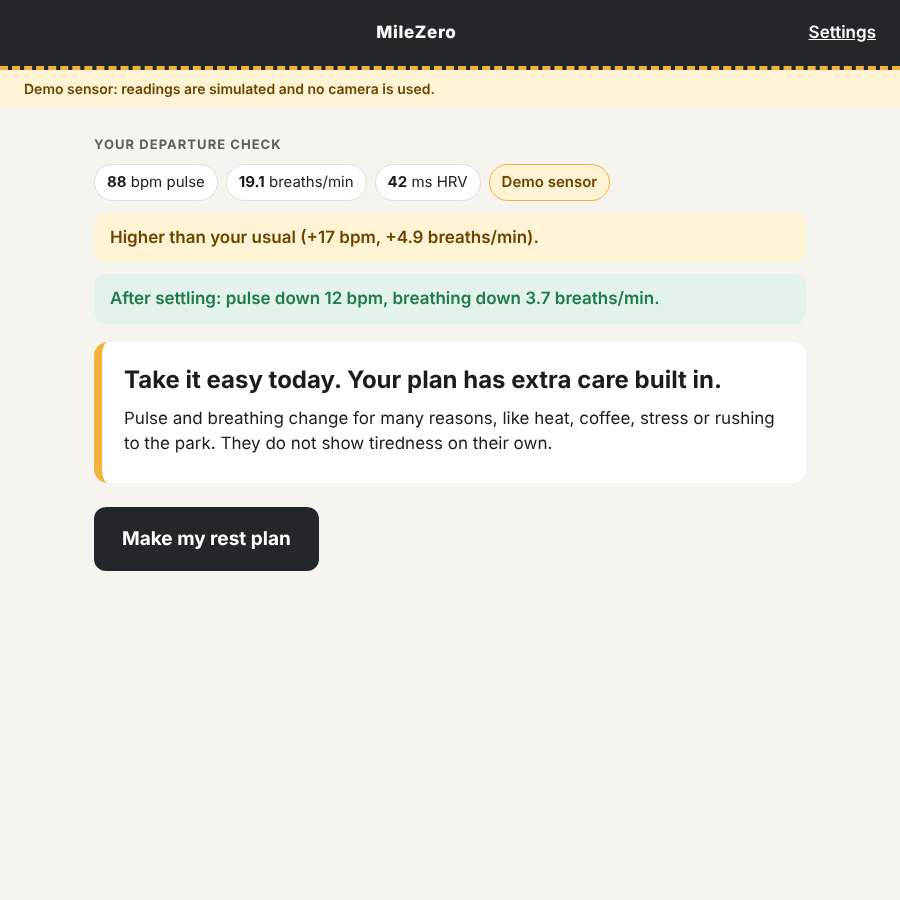
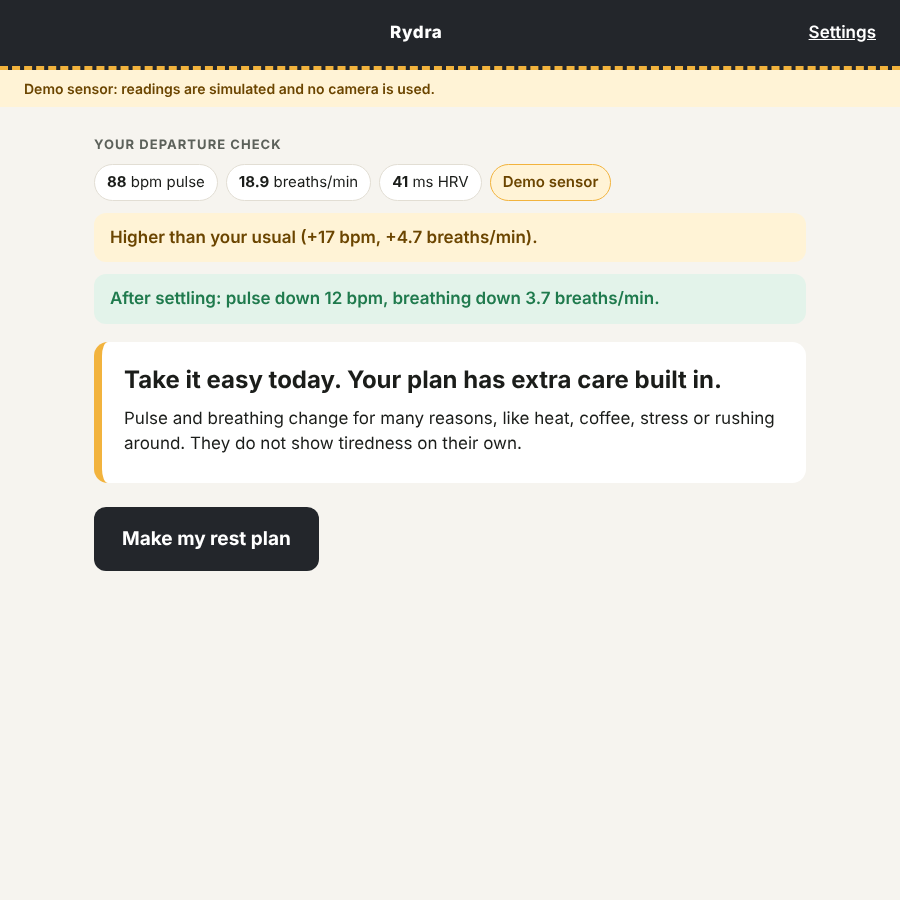
Rename product to Rydra

diff --git a/src/ui/app.js b/src/ui/app.js
@@ -1,4 +1,4 @@
-// MileZero renderer: screens, flow and local state.
+// Rydra renderer: screens, flow and local state.
 'use strict';
 
 const QRCode = require('qrcode');
@@ -14,9 +14,9 @@ const { DemoSensor } = require('../sensor/demo');
 
 const browserPreview = typeof window.mz === 'undefined';
 const api = browserPreview ? {
-  load: async () => { try { return JSON.parse(localStorage.getItem('milezero') || 'null'); } catch { return null; } },
-  save: async (d) => { try { localStorage.setItem('milezero', JSON.stringify(d)); } catch { /* preview only */ } return true; },
-  wipe: async () => { try { localStorage.removeItem('milezero'); } catch { /* preview only */ } return true; },
+  load: async () => { try { return JSON.parse(localStorage.getItem('rydra') || 'null'); } catch { return null; } },
+  save: async (d) => { try { localStorage.setItem('rydra', JSON.stringify(d)); } catch { /* preview only */ } return true; },
+  wipe: async () => { try { localStorage.removeItem('rydra'); } catch { /* preview only */ } return true; },
   config: async () => ({ apiKey: '', demoSensor: true, platform: 'browser' }),
 } : window.mz;
 
@@ -98,7 +98,7 @@ function readingChips(r) {
 
 function comparisonLine(cmp) {
   if (!cmp) return '';
-  if (cmp.status === 'building') return '<p class="quiet">Building your baseline: a few more good checks and MileZero can compare you with your usual.</p>';
+  if (cmp.status === 'building') return '<p class="quiet">Building your baseline: a few more good checks and Rydra can compare you with your usual.</p>';
   if (cmp.status === 'no-reading') return '';
   const part = (d, unit) => (d == null ? '' : `${d > 0 ? '+' : ''}${Math.round(d * 10) / 10} ${unit}`);
   const diffs = [part(cmp.pulseDiff, 'bpm'), part(cmp.breathDiff, 'breaths/min')].filter(Boolean).join(', ');
@@ -119,7 +119,7 @@ function shell(inner, { back } = {}) {
   return `
     <header class="top">
       ${back ? `<button class="link back" data-go="${back}">← Back</button>` : '<span></span>'}
-      <span class="brand">MileZero</span>
+      <span class="brand">Rydra</span>
       <button class="link" data-go="settings" aria-label="Settings">Settings</button>
     </header>
     ${demo ? '<div class="demo-banner">Demo sensor: readings are simulated and no camera is used.</div>' : ''}
@@ -152,9 +152,9 @@ VIEWS.consent = () => `
     <h1>Your check-in, your data.</h1>
     <ul class="facts">
       <li><b>Camera only when you start a check.</b> It turns off when the check ends.</li>
-      <li><b>No video is saved.</b> MileZero keeps only numbers: pulse, breathing, and HRV when available.</li>
+      <li><b>No video is saved.</b> Rydra keeps only numbers: pulse, breathing, and HRV when available.</li>
       <li><b>Everything stays on this device.</b> No employer dashboard, no automatic reporting.</li>
-      <li><b>Not a medical device.</b> MileZero never says you are safe to drive or that you are tired. It helps you plan rest.</li>
+      <li><b>Not a medical device.</b> Rydra never says you are safe to drive or that you are tired. It helps you plan rest.</li>
       <li><b>Delete everything anytime</b> from Settings.</li>
     </ul>
     <label class="check"><input type="checkbox" id="tele" ${state.settings.telemetry ? 'checked' : ''}>
@@ -194,7 +194,7 @@ VIEWS.home = () => {
         <h3>Your baseline</h3>
         ${base.ready
           ? `<p><b>${Math.round(base.pulse)}</b> bpm pulse · <b>${Math.round(base.breathing * 10) / 10}</b> breaths/min</p><p class="quiet">From your last ${base.count} good departure checks.</p>`
-          : `<p>Building: ${base.count} of ${base.needed} good checks.</p><p class="quiet">Until then MileZero relies mainly on your answers.</p>`}
+          : `<p>Building: ${base.count} of ${base.needed} good checks.</p><p class="quiet">Until then Rydra relies mainly on your answers.</p>`}
       </div>
       <div class="card">
         <h3>Last trip</h3>
@@ -503,7 +503,7 @@ VIEWS.trip = () => {
     <ol class="stops">
       ${j.plan.stops.map((s, i) => `<li class="${i < done ? 'done' : i === done ? 'next' : ''}"><b>${esc(s.name)}</b><span>${i < done ? 'checked' : s.town ? `about ${fmtDuration(s.atMin)}` : ''}</span></li>`).join('')}
     </ol>
-    <p class="callout">Never use MileZero while driving. Park first.</p>
+    <p class="callout">Never use Rydra while driving. Park first.</p>
     <div class="row">
       <button class="primary big" id="atStop">I'm parked at a rest stop</button>
       <button class="secondary" id="arrived">I've arrived</button>
@@ -666,7 +666,7 @@ VIEWS.settings = () => shell(`
       Share anonymous SDK usage reports with Presage. Presage says these never include video or vital signs.</label>
   </div>
   <div class="card">
-    <h3>What MileZero stores</h3>
+    <h3>What Rydra stores</h3>
     <p>${state.readings.length} readings (numbers only) and ${state.journeys.length} trips, all on this device. No video, no images.</p>
     <p class="quiet">Measuring with: ${esc(sensor ? sensor.label : '—')}</p>
     <button class="danger" id="wipe">Delete all my data</button>

diff --git a/main.js b/main.js
@@ -1,4 +1,4 @@
-// MileZero main process.
+// Rydra main process.
 // - Opens the app window with the SmartSpectra preload bridge.
 // - Stores all journey data in ONE local JSON file in the user's app-data folder.
 // - Hands the API key to the renderer (read from the environment or a local .env file).
@@ -25,7 +25,7 @@ if (!DEMO_SENSOR) {
 
 const { seedDemoData } = require('./src/core/seed');
 
-const storeFile = () => path.join(app.getPath('userData'), 'milezero-data.json');
+const storeFile = () => path.join(app.getPath('userData'), 'rydra-data.json');
 
 function readStore() {
   try {
@@ -61,7 +61,7 @@ function createWindow() {
     height: 760,
     minWidth: 420,
     backgroundColor: '#f6f4ef',
-    title: 'MileZero',
+    title: 'Rydra',
     webPreferences: {
       preload: path.join(__dirname, 'preload.js'),
       contextIsolation: true,
@@ -73,7 +73,7 @@ function createWindow() {
 
   if (bindSmartSpectraIpc) bindSmartSpectraIpc(win);
 
-  // MileZero only ever shows its own local page.
+  // Rydra only ever shows its own local page.
   win.webContents.setWindowOpenHandler(() => ({ action: 'deny' }));
   win.webContents.on('will-navigate', (event) => event.preventDefault());
   win.loadFile(path.join(__dirname, 'index.html'));
@@ -90,7 +90,7 @@ app.whenReady().then(() => {
 
   if (process.env.MZ_SEED_DEMO === '1') {
     writeStore(seedDemoData(readStore()));
-    console.log('[milezero] Seeded demo history into', storeFile());
+    console.log('[rydra] Seeded demo history into', storeFile());
   }
 
   createWindow();

diff --git a/src/core/badge.js b/src/core/badge.js
@@ -5,7 +5,7 @@ function badgeText({ checkedAt, routeName, stopCount }) {
   const d = new Date(checkedAt);
   const when = `${d.toLocaleDateString('en-GB', { day: 'numeric', month: 'short', year: 'numeric' })} ${d.toLocaleTimeString('en-GB', { hour: '2-digit', minute: '2-digit' })}`;
   return [
-    'MileZero: driver pre-trip check-in completed',
+    'Rydra: driver pre-trip check-in completed',
     `When: ${when}`,
     routeName ? `Route: ${routeName}` : null,
     `Rest plan: ${stopCount} planned ${stopCount === 1 ? 'stop' : 'stops'}`,

diff --git a/index.html b/index.html
@@ -5,7 +5,7 @@
   <meta name="viewport" content="width=device-width, initial-scale=1">
   <meta http-equiv="Content-Security-Policy"
         content="default-src 'self'; style-src 'self' 'unsafe-inline'; img-src 'self' data:; worker-src 'self' blob:; media-src blob:;">
-  <title>MileZero</title>
+  <title>Rydra</title>
   <link rel="stylesheet" href="./styles.css">
 </head>
 <body>

diff --git a/src/core/advice.js b/src/core/advice.js
@@ -1,4 +1,4 @@
-// What MileZero says to the driver. Rules:
+// What Rydra says to the driver. Rules:
 // 1. Never say "safe to drive" or "you are fatigued". We describe readings and suggest plans.
 // 2. What the driver reports about sleepiness always wins over the camera.
 // 3. Every comparison carries a plain note that readings change for many reasons.

diff --git a/preload.js b/preload.js
@@ -1,4 +1,4 @@
-// MileZero preload: loads the SmartSpectra bridge and exposes a small, fixed API for local storage.
+// Rydra preload: loads the SmartSpectra bridge and exposes a small, fixed API for local storage.
 'use strict';
 
 const { contextBridge, ipcRenderer } = require('electron');

diff --git a/src/core/baseline.js b/src/core/baseline.js
@@ -1,4 +1,4 @@
-// Personal baselines. MileZero only ever compares a driver with their OWN usual readings.
+// Personal baselines. Rydra only ever compares a driver with their OWN usual readings.
 'use strict';
 
 const MIN_READINGS = 3;     // fewer than this = "building your baseline"

diff --git a/src/core/store.js b/src/core/store.js
@@ -1,4 +1,4 @@
-// Shape of everything MileZero keeps, plus retention. All of it lives on the driver's device.
+// Shape of everything Rydra keeps, plus retention. All of it lives on the driver's device.
 'use strict';
 
 const CONSENT_VERSION = 1;

diff --git a/README.md b/README.md
@@ -1,12 +1,12 @@
-# MileZero
+# Rydra
 
 **A private check-in for long-distance drivers, before, during and after the journey.**
 
-Drivers check their tyres, fuel and engine before a long trip. MileZero is a check for the person behind the wheel. It uses the [Presage SmartSpectra SDK](https://smartspectra.presagetech.com/docs/nodejs) to read live pulse and breathing from a laptop camera, compares them with the driver's *own* usual readings, and builds a rest plan with breaks at real towns on the route.
+Drivers check their tyres, fuel and engine before a long trip. Rydra is a check for the person behind the wheel. It uses the [Presage SmartSpectra SDK](https://smartspectra.presagetech.com/docs/nodejs) to read live pulse and breathing from a laptop camera, compares them with the driver's *own* usual readings, and builds a rest plan with breaks at real towns on the route.
 
 Built for the Presage SmartSpectra SDK Challenge on DEV.
 
-> MileZero is a wellness and planning aid. It is **not a medical device** and never says a driver is "safe to drive" or "fatigued."
+> Rydra is a wellness and planning aid. It is **not a medical device** and never says a driver is "safe to drive" or "fatigued."
 
 ## What it does
 
@@ -28,8 +28,8 @@ Preloaded routes: Lagos–Abuja (via Lokoja), Lagos–Port Harcourt, Abuja–Kan
 Requirements: Node.js 20+, a webcam, and macOS (Apple Silicon), Windows x64 or Linux x64/arm64 (glibc 2.35+).
 
 ```bash
-git clone <your repo url> milezero
-cd milezero
+git clone <your repo url> rydra
+cd rydra
 npm install
 cp .env.example .env          # then paste your key from https://physiology.presagetech.com/
 npm start
@@ -66,22 +66,22 @@ src/ui/app.js      screens and flow
 
 ## Consent and Data Handling
 
-- **Camera consent:** first launch shows a plain-language consent screen. The camera turns on only when the driver starts a check and is released when it ends. Electron is set to grant camera only (no microphone) and only to MileZero's own local page.
+- **Camera consent:** first launch shows a plain-language consent screen. The camera turns on only when the driver starts a check and is released when it ends. Electron is set to grant camera only (no microphone) and only to Rydra's own local page.
 - **What is stored:** numbers only: pulse, breathing rate, HRV when available, a quality flag, the driver's answers, rest plans and times. **No video or images are saved.**
-- **Where:** on the driver's device only. MileZero has no server.
+- **Where:** on the driver's device only. Rydra has no server.
 - **Sharing:** none by default. The optional passenger badge contains only "check-in completed," route name, time and number of planned stops.
 - **Retention:** 90 days by default (30 or 180 selectable). Older data is deleted on launch. An unfinished trip is kept.
 - **Deletion:** Settings → *Delete all my data* erases everything on the device.
-- **SDK telemetry:** the SmartSpectra SDK can send aggregate session summaries and readiness reports to Presage. Presage's SDK documentation states these contain **no raw frames or measured vitals**. MileZero turns this **off by default**; the driver can opt in on the consent screen or in Settings.
-- **Network:** the SDK validates the API key with Presage's servers. If a camera check can't start (no connection, authentication or credit errors), MileZero falls back to a clearly labelled questions-only check. The saved plan, history and nap timer work without a connection.
+- **SDK telemetry:** the SmartSpectra SDK can send aggregate session summaries and readiness reports to Presage. Presage's SDK documentation states these contain **no raw frames or measured vitals**. Rydra turns this **off by default**; the driver can opt in on the consent screen or in Settings.
+- **Network:** the SDK validates the API key with Presage's servers. If a camera check can't start (no connection, authentication or credit errors), Rydra falls back to a clearly labelled questions-only check. The saved plan, history and nap timer work without a connection.
 - **AI services:** none used.
 
 ## Limits
 
 - Camera readings need the driver to be parked, sitting still, facing the camera in reasonable light.
-- Pulse and breathing change for many reasons (heat, caffeine, stress, rushing). MileZero says so beside every comparison and never treats them as a measure of tiredness.
+- Pulse and breathing change for many reasons (heat, caffeine, stress, rushing). Rydra says so beside every comparison and never treats them as a measure of tiredness.
 - Route times are approximate planning estimates, not navigation.
 
 ## Licence
 
-MileZero code: MIT. The SmartSpectra SDK is licensed separately by Presage Technologies.
+Rydra code: MIT. The SmartSpectra SDK is licensed separately by Presage Technologies.
